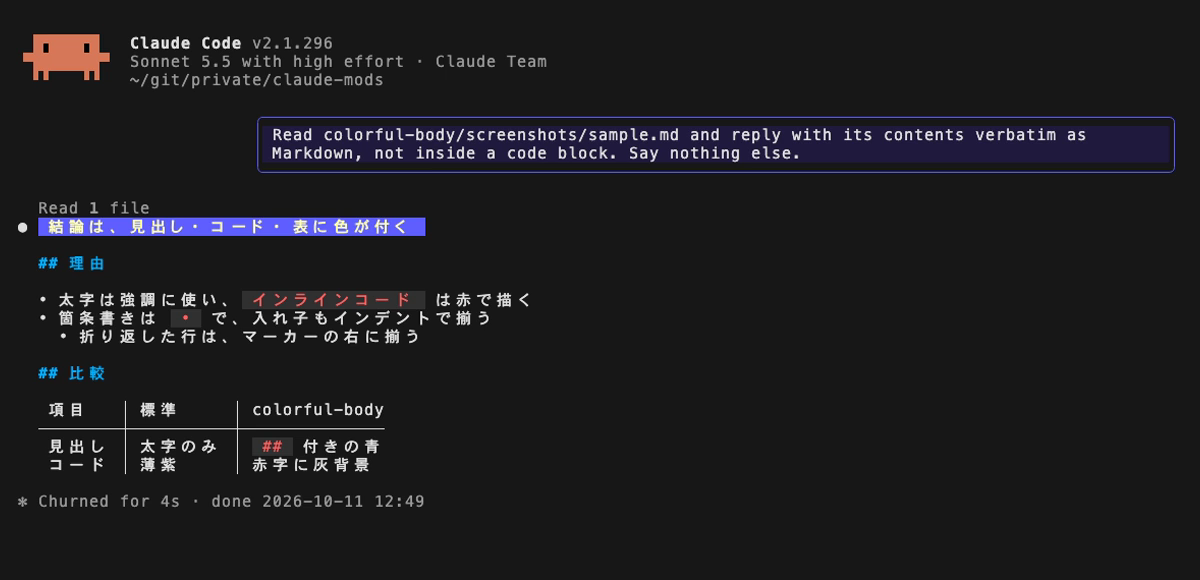
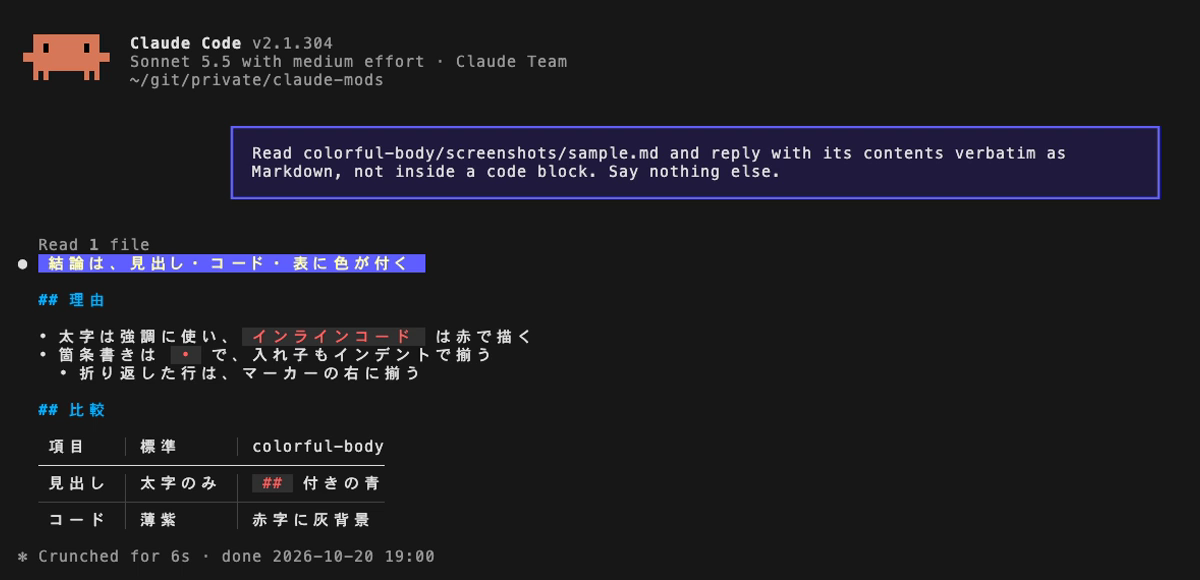
feat: :sparkles: colorful-body の表に行の間の線を足し、罫線を灰色にする
- 本文の行の間に ─┼─ を引く（最後の行の後には引かない）
- 行の間の線と列の間の │ は暗い灰色（#444444）。dimColor では濃さがほぼ変わらなかった
- ヘッダの下は ┼ で切らず明るい ─── を端までつなぐ（灰色の │ と色が混ざらないように）
- README のスクリーンショットを撮り直す

Changed region(s): [[0.0, 0.1862, 0.9867, 0.9931], [0.2467, 0.0621, 0.4933, 0.1241]]

diff --git a/colorful-body/hooks/table.ts b/colorful-body/hooks/table.ts
@@ -2,9 +2,11 @@ import { splitSpans } from './blocks'
 import { linkify } from './links'
 import type { LinkContext } from './links'
 
-// A table drawn as glow draws it: header, a ─┼─ rule, rows split by │, cells
+// A table drawn as glow draws it: header, a ─── rule, rows split by │, cells
 // wrapped to column widths counted in terminal cells (wide characters = 2).
-export type Piece = { text: string; kind: 'text' | 'code'; bold: boolean; href?: string }
+// Body rows are parted by a ─┼─ rule; that rule and the │ are drawn in the
+// rule color (`rule`), the header rule in the text color.
+export type Piece = { text: string; kind: 'text' | 'code'; bold: boolean; href?: string; rule?: boolean }
 export type Line = Piece[]
 
 export const cellWidth = (ch: string): number => {
@@ -94,6 +96,10 @@ export const layoutTable = (rows: string[][], available: number, ctx?: LinkConte
     widths[widest] = (widths[widest] ?? 0) - 1
   }
 
+  const segments = widths.map((w, c) => '─'.repeat(w + (c === columns - 1 && columns > 1 ? 1 : 2)))
+  // The header rule runs unbroken over the gray │; a ┼ there mixes the two colors.
+  const headerRule = segments.join('─')
+  const rule = segments.join('┼')
   const out: Line[] = []
   rows.forEach((row, rowIndex) => {
     const cells = widths.map((w, c) => wrapCell(row[c] ?? '', w, ctx))
@@ -103,16 +109,12 @@ export const layoutTable = (rows: string[][], available: number, ctx?: LinkConte
       cells.forEach((cell, c) => {
         const part = cell[l] ?? []
         line.push(...part, plain(' '.repeat(Math.max(0, (widths[c] ?? 0) - lineWidth(part)))))
-        if (c < columns - 1) line.push(plain(' │ '))
+        if (c < columns - 1) line.push({ ...plain(' │ '), rule: true })
       })
       out.push(line)
     }
-    if (rowIndex === 0) {
-      const rule = widths
-        .map((w, c) => '─'.repeat(w + (c === columns - 1 && columns > 1 ? 1 : 2)))
-        .join('┼')
-      out.push([plain(rule)])
-    }
+    if (rowIndex === 0) out.push([plain(headerRule)])
+    else if (rowIndex < rows.length - 1) out.push([{ ...plain(rule), rule: true }])
   })
   return out
 }

diff --git a/colorful-body/hooks/blocks.test.ts b/colorful-body/hooks/blocks.test.ts
@@ -23,18 +23,27 @@ test('spans: bold may hold code; unclosed markers stay literal', async () => {
   expect(kinds('**')).toEqual(['text'])
 })
 
-test('table: wide characters count 2, header rule joins columns, narrow width wraps', async () => {
+test('table: wide characters count 2, header rule runs unbroken, body rule joins columns, narrow width wraps', async () => {
   expect(textWidth('日本a')).toBe(5)
   const text = (rows: string[][], width: number) =>
     layoutTable(rows, width).map(line => line.map(p => p.text).join(''))
-  const wide = text([['タイミング', '内容'], ['x', 'y']], 80)
+  const wide = text([['タイミング', '内容'], ['x', 'y'], ['z', 'w']], 80)
   expect(wide[0]).toBe(' タイミング │ 内容')
-  expect(wide[1]).toBe('────────────┼─────')
+  expect(wide[1]).toBe('──────────────────')
+  expect(wide[3]).toBe('────────────┼─────')
   // the ┼ sits under the │ of the row above
   const cellsBefore = (line: string | undefined, mark: string) =>
     textWidth((line ?? '').slice(0, (line ?? '').indexOf(mark)))
-  expect(cellsBefore(wide[1], '┼')).toBe(cellsBefore(wide[0], '│'))
+  expect(cellsBefore(wide[3], '┼')).toBe(cellsBefore(wide[0], '│'))
   const narrow = text([['a', 'one two three four five six']], 16)
   expect(narrow.length).toBeGreaterThan(1)
   expect(narrow.every(l => textWidth(l) <= 16)).toBe(true)
+})
+
+test('table: body rows are parted by a rule, none after the last row; only the header rule is in the text color', async () => {
+  const lines = layoutTable([['h1', 'h2'], ['a', 'b'], ['c', 'd'], ['e', 'f']], 80)
+  const text = lines.map(line => line.map(p => p.text).join(''))
+  expect(text).toEqual([' h1 │ h2', '────────', ' a  │ b ', '────┼───', ' c  │ d ', '────┼───', ' e  │ f '])
+  const ruled = lines.map(line => line.filter(p => p.rule === true).map(p => p.text).join(''))
+  expect(ruled).toEqual([' │ ', '', ' │ ', '────┼───', ' │ ', '────┼───', ' │ '])
 })

diff --git a/colorful-body/hooks/register.tsx b/colorful-body/hooks/register.tsx
@@ -12,6 +12,8 @@ const HEADING_COLOR = '#00afff' // 39
 const CODE_COLOR = '#ff5f5f' // 203
 const CODE_BACKGROUND = '#303030' // 236
 const FRAME_BORDER = '#5f5fff' // 63
+// Table rules between body rows and between columns: a fixed dark gray, since dimColor barely shows on light gray text.
+const ROW_RULE_COLOR = '#444444' // 238
 const FRAME_BACKGROUND = '#1f1a3d'
 // Blank rows around the prompt frame, so it does not read as one block with the output before and the reply after.
 const FRAME_MARGIN_TOP = 1
@@ -99,7 +101,7 @@ export const register: Register = (on, options) => {
                             {linked(piece.text, piece.href)}
                           </Text>
                         ) : (
-                          <Text key={`p${p}`} bold={piece.bold} underline={isLink(piece.href)}>
+                          <Text key={`p${p}`} bold={piece.bold} color={piece.rule === true ? ROW_RULE_COLOR : undefined} underline={isLink(piece.href)}>
                             {linked(piece.text, piece.href)}
                           </Text>
                         ),

diff --git a/colorful-body/README.md b/colorful-body/README.md
@@ -22,7 +22,7 @@ colorful-body:
 | `##` 以降の見出し | `##` 付きの青い太字 |
 | インラインコード | 赤字・灰背景 |
 | 箇条書き | `•` |
-| 表 | `─┼─` と `│` で区切る。狭いときはセル内で折り返す |
+| 表 | ヘッダの下に `───`、本文の行の間と列の間に灰色の `─┼─` と `│`。狭いときはセル内で折り返す |
 | あなたの発言 | 右寄せの枠で囲む |
 
 ## 設定
